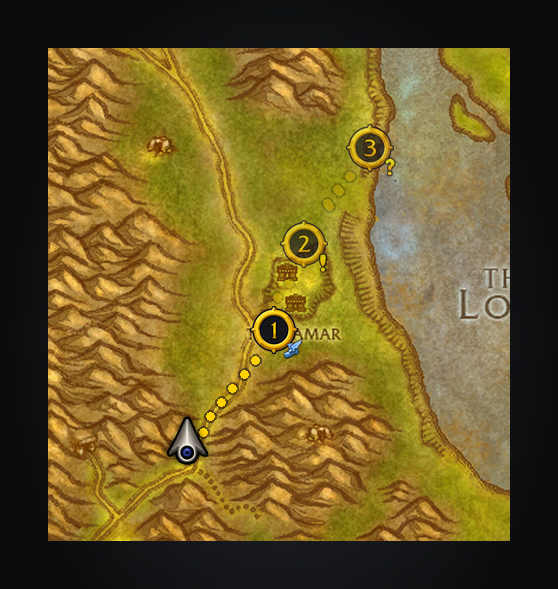
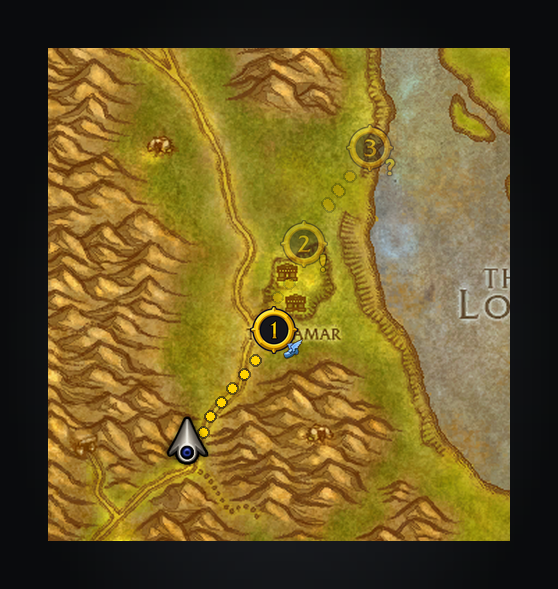
feat(map): later stops fade like their lines; stop tooltip reads at a glance (#481)
Closes #475
Closes #476

**Feature: held for the in-game test.**

- **#475:** later stop pins use Strokes.lua's `LATER_ALPHA` (0.4,
exported as `ns.LaterAlpha`) instead of their own 0.7. Every path is
tagged with the stop it leads to (`path.stop`: the current leg in
`WorldPaths`, later hops and placeholders in
`Itinerary.JourneyPreview`). Hovering a stop calls `ns.HoverStop`, which
redraws the lines with that stop's leg at full strength; the pin itself
goes to full too, and both fade back on leave.
- **#476:** `Core/API.lua` keeps the caller's label apart
(`point.stopLabel`). The tooltip title is `Stop 5 of 10`, the label sits
under it in white, the detail lines follow in the normal colour, and a
blank line separates the right-click hint. A shared pin lists each
stop's count and label in turn.
- `stops.png` re-rendered: later stops now as faded as their lines.

## `/reload` checks

1. Plan an Adventure Guide journey with several stops and open the world
map: stops past the current one are as faint as their dotted lines.
2. Hover stop 3: its marker and the dotted leg into it go full strength;
move off and both fade again.
3. The tooltip reads: `Stop 3 of 10` title, the objective in white, the
quest, chapter and next lines, a gap, then *Right-click to clear*.

🤖 Generated with [Claude Code](https://claude.com/claude-code)

https://claude.ai/code/session_01UkMWrwpRzYWzVUN5AEKM3S

Changed region(s): [[0.6093, 0.2139, 0.7007, 0.3056], [0.4875, 0.3667, 0.6093, 0.4584]]

diff --git a/tools/screenshots.py b/tools/screenshots.py
@@ -516,9 +516,9 @@ NUMBER_SIZE = 24
 
 
 def stop_pin(canvas, x, y, number, badge, later):
-    """StopPin.lua: a numbered stop wears the addon's own gold numbered marker, later stops dimmer; the action badge
-    stays visible at the lower right."""
-    alpha = 0.7 if later else 1
+    """StopPin.lua: a numbered stop wears the addon's own gold numbered marker, later stops as faded as their lines;
+    the action badge stays visible at the lower right."""
+    alpha = 0.4 if later else 1
     canvas.draw(
         number_art(number), x - NUMBER_SIZE / 2, y - NUMBER_SIZE / 2, NUMBER_SIZE, NUMBER_SIZE, (1, 1, 1, alpha)
     )

diff --git a/docs/screenshots.md b/docs/screenshots.md
@@ -25,7 +25,7 @@ pixels never enter product media.
 | `kalimdor.png` | Auberdine → Menethil → Theramore → Cenarion Hold, Silithus |
 | `darkshore.png` | A measured walk south from Auberdine to the Grove of the Ancients |
 | `docks.png` | Auberdine's clustered piers; arrivals/departures and hover highlighting |
-| `stops.png` | A four-stop API route through Thelsamar (three places): the current stop at full strength and the later ones dimmer, each on the addon's gold numbered marker with its action badge |
+| `stops.png` | A four-stop API route through Thelsamar (three places): the current stop at full strength and the later ones as faded as their lines, each on the addon's gold numbered marker with its action badge |
 | `area.png` | Westfall, standing in a quest's area: the world map draws the game's own area for the quest in gold, with no stop pin or line, cropped to the area |
 | `tracker.png` | Capture 21's five Auberdine → Silithus steps, with the current totals header |
 | `detached.png` | The Journey tracker detached from the quest tracker, under its draggable "Forever tracker" heading |
@@ -55,9 +55,9 @@ remains 8,000 ms. The animation uses fixed time steps, never the wall clock.
   overview curves, fading continent-edge curves and the 1.2-second settling pulse.
   Outlines render below all cores. The destination uses the native pin at 0.8 scale.
 - `UI/StopPin.lua` gives every numbered stop up to 25 the addon's own gold numbered marker at 24 units, the current
-  stop at full strength and later stops at the 0.7 alpha they share, and keeps above 25 the tracked quest's
-  `UI-QuestPoi-QuestNumber-SuperTracked` button and the font number. Each stop keeps the caller's action badge over its
-  lower right.
+  stop at full strength and later stops at the 0.4 alpha they share with the lines leading to them, and keeps above 25
+  the tracked quest's `UI-QuestPoi-QuestNumber-SuperTracked` button and the font number. Each stop keeps the caller's
+  action badge over its lower right.
 - `area.png` draws the client's own areas for quest 92744's objective 0 on Westfall: every `QuestPOIBlob`
   row of it and their `QuestPOIPoint` corners, projected through `UiMapAssignment`, with the player in the
   largest area in the pinned data build.

diff --git a/CHANGELOG.md b/CHANGELOG.md
@@ -12,6 +12,9 @@ optional `### For addon authors` subsection after a version's player bullets.
 
 ## [Unreleased]
 
+- **Later stops fade as far as their lines.** With several stops, every stop past the one being guided to now dims to the same 40 percent as the line that leads to it, so the way ahead recedes as one. Hovering a later stop brings its icon and its own leg back to full strength, and they fade again when the pointer leaves (#475).
+- **The stop tooltip reads at a glance.** A stop's count now sits on a short title line of its own, what to do there is the first line under it in white, and the quest, chapter and next lines stay in the normal colour above a blank line and the right-click hint. A long Adventure Guide stop no longer wraps its title over three lines (#476).
+
 ## [1.22.53] - 2026-11-08
 
 - **Shortest Path's settings no longer write the client's bare `Text` name.** The shared Forever addons page and the minimap Journey button were built from Blizzard templates under unnamed frames, so their labels landed on bare globals such as `Text`, written on the way to every settings page, Combat Text included. Both are named now, so every name they write is this addon's. This removes one way Shortest Path could carry taint into the Combat Text compare error. Thanks to Speaker1264 for the report (cjber/shortest-path-forever#457).
